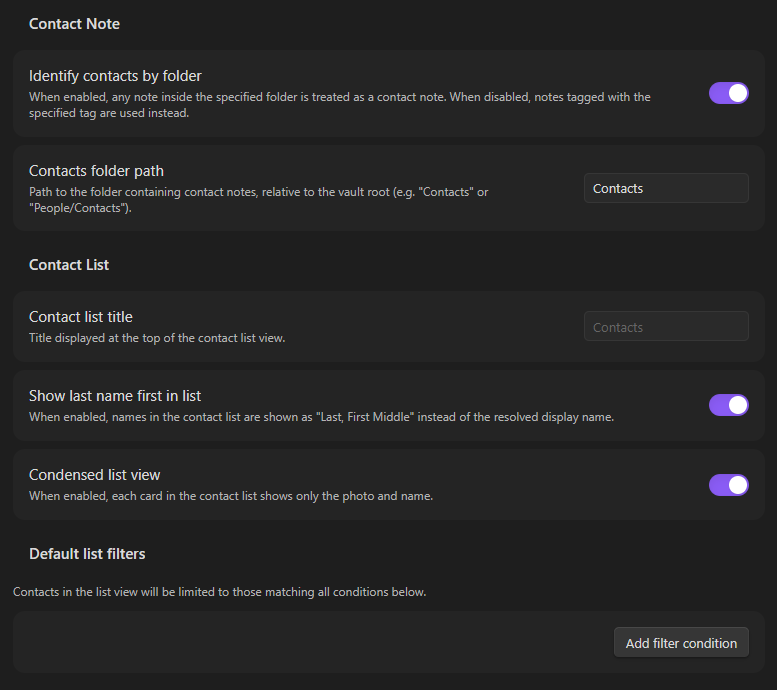
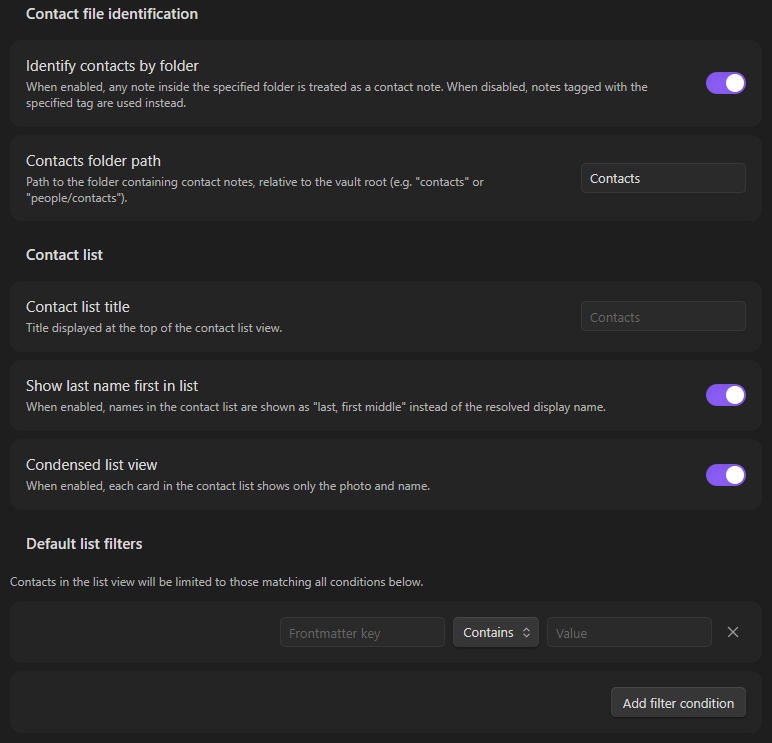
Updated readme with new changes to linter and settings

diff --git a/src/ContactNoteSettingTab.ts b/src/ContactNoteSettingTab.ts
@@ -16,7 +16,7 @@ export class ContactNoteSettingTab extends PluginSettingTab {
     containerEl.empty();
 
     // Contact Note Settings
-    new Setting(containerEl).setName("Contacts file identification").setHeading();
+    new Setting(containerEl).setName("Contact file identification").setHeading();
 
     new Setting(containerEl)
       .setName("Identify contacts by folder")

diff --git a/README.md b/README.md
@@ -14,7 +14,16 @@ An [Obsidian](https://obsidian.md/) plugin that renders visual contact cards fro
 - Default list filters based on any frontmatter property
 - Contacts identified by folder or tag
 
-## Manual Installation
+## Installation
+
+### Obsidian Community Plugins
+
+1. Open Obsidian and go to **Settings → Community plugins**.
+2. If restricted mode is on, click **Turn on community plugins**.
+3. Click **Browse** and search for **Contact Note**.
+4. Click **Install**, then **Enable**.
+
+### Manual
 
 1. Download `main.js`, `manifest.json`, and `styles.css` from the latest release.
 2. In your vault, create the folder `.obsidian/plugins/contact-note/` if it does not already exist.
@@ -148,7 +157,7 @@ Click any letter in the alphabet bar to filter contacts whose last name starts w
 
 ![Settings](screenshots/settings.png)
 
-### Contact Note
+### Contact File Identification
 
 | Setting | Description | Default |
 |---|---|---|
@@ -164,7 +173,7 @@ Click any letter in the alphabet bar to filter contacts whose last name starts w
 | Show last name first in list | When enabled, names in the list are shown as `Last, First Middle`. Does not affect the contact card. | Enabled |
 | Condensed list view | When enabled, each card in the list shows only the photo and name. | Enabled |
 
-### Default list filters
+### Default List Filters
 
 Add one or more filter conditions to limit which contacts appear in the list view. All conditions must match for a contact to be shown (AND logic).
 
@@ -172,11 +181,11 @@ Each condition targets a frontmatter property by key and supports the following 
 
 | Operator | Value required | Description |
 |---|---|---|
-| `contains` | Yes | Property value contains the given string, or array includes a matching item. |
-| `is` | Yes | Property value exactly equals the given string. |
-| `exists` | No | Property is present and has a non-empty value. |
-| `is true` | No | Property value is `true` (boolean or string). |
-| `is false` | No | Property value is `false` (boolean or string). |
+| `Contains` | Yes | Property value contains the given string, or array includes a matching item. |
+| `Is` | Yes | Property value exactly equals the given string. |
+| `Exists` | No | Property is present and has a non-empty value. |
+| `Is true` | No | Property value is `true` (boolean or string). |
+| `Is false` | No | Property value is `false` (boolean or string). |
 
 Filters apply to any frontmatter property, including custom fields not used by the plugin.
 
@@ -213,7 +222,7 @@ Contributions are welcome. Please open an issue to discuss significant changes b
 npm run lint
 ```
 
-ESLint with `@typescript-eslint` is configured via `.eslintrc`. Run lint before submitting a pull request. The `node_modules/` directory and built `main.js` are excluded via `.eslintignore`.
+ESLint 10 with [`eslint-plugin-obsidianmd`](https://github.com/obsidianmd/eslint-plugin-obsidianmd) is configured via `eslint.config.mjs`. Run lint before submitting a pull request.
 
 ### Production build
 
